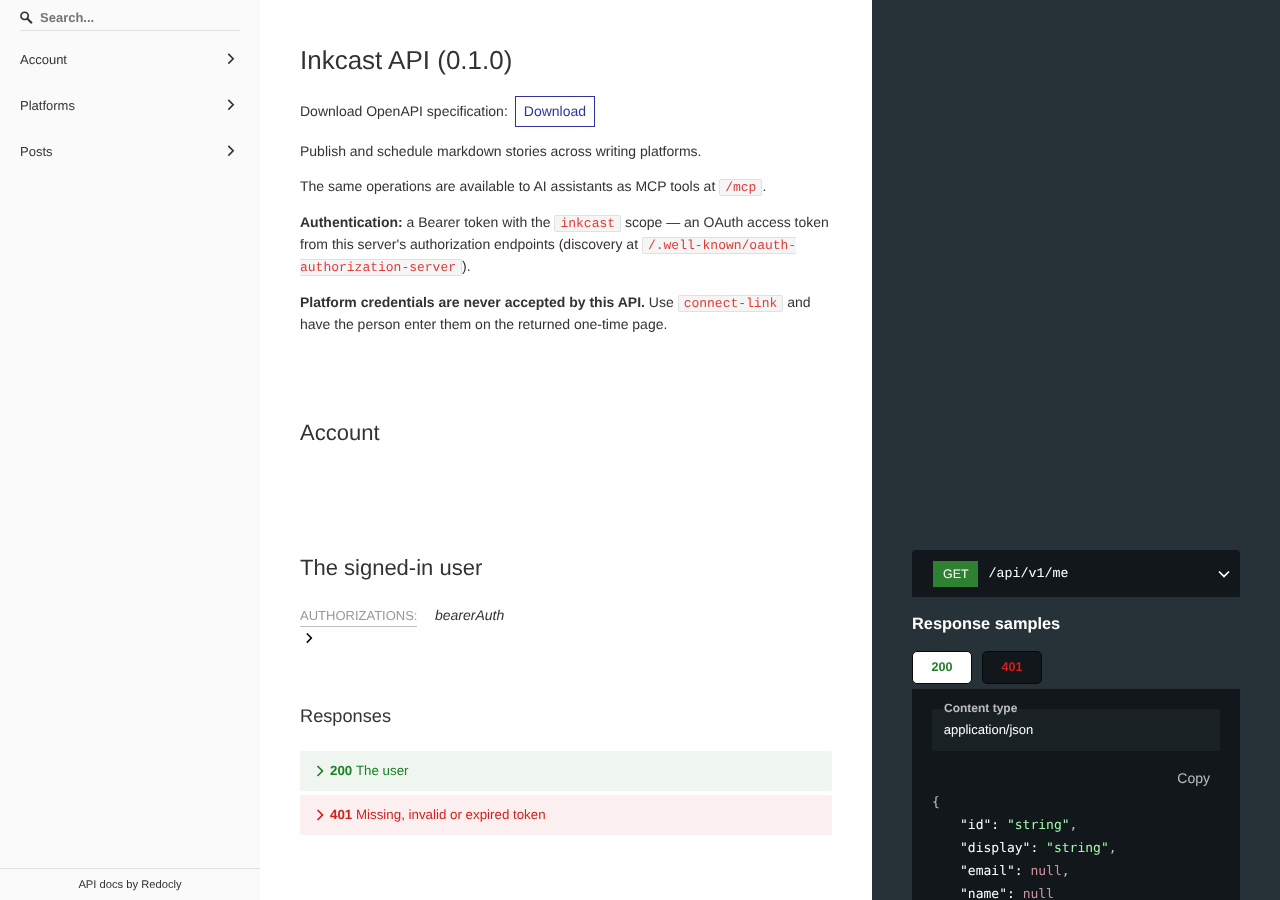
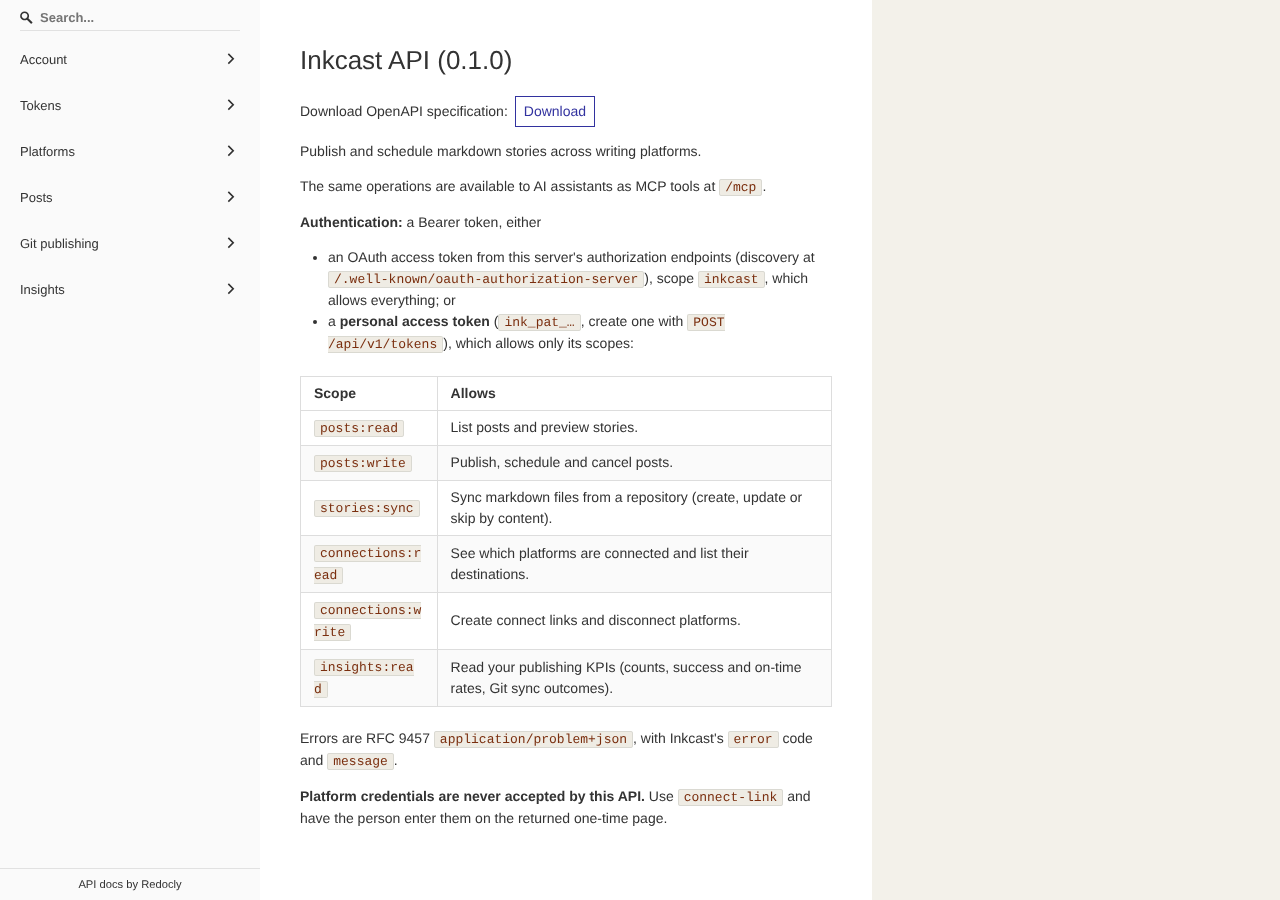
API docs: ReDoc light only, right panel and code samples included (#63)

diff --git a/src/inkcast/libs/http/docs.py b/src/inkcast/libs/http/docs.py
@@ -15,6 +15,7 @@ Routes (see ``docs_routes``)
 from __future__ import annotations
 
 import hashlib
+import json
 from functools import lru_cache
 from importlib.resources import files
 from typing import Any, Callable
@@ -92,10 +93,30 @@ async def swagger_ui(_: Request) -> Response:
         f"<script src='{asset_url('swagger-init.js')}'></script></body></html>"))
 
 
+# ReDoc draws its right-hand panel (code samples) dark by default; Inkcast's pages are light only (#60). The `theme`
+# attribute is JSON that ReDoc parses itself, so no inline script is needed under the CSP.
+REDOC_THEME = json.dumps({
+    "rightPanel": {"backgroundColor": "#f3f1ea", "textColor": "#1c1b19", "width": "40%"},
+    "codeBlock": {"backgroundColor": "#e9e6dc"},
+    "typography": {"code": {"color": "#7a2e0e", "backgroundColor": "#efece4"}},
+}, separators=(",", ":"))
+# What the theme can't reach: ReDoc's code-sample token colours are fixed for a dark panel (keys are plain white), and
+# the selected tab's background is the panel's text colour. Its styled-component selectors outrank plain classes.
+REDOC_LIGHT_CSS = (
+    ".redoc-json .token.property.string{color:#1d4f73!important}"
+    ".token.string{color:#2f6b2f!important}"
+    ".token.number,.token.property,.token.constant{color:#1d5f8a!important}"
+    ".token.boolean{color:#a8321f!important}"
+    ".token.keyword{color:#8a3b52!important}"
+    ".token.string+a,.token.string+a:visited{color:#0e6b63!important}"
+    ".react-tabs__tab--selected{background:#ffffff!important;color:#1c1b19!important}"
+)
+
+
 async def redoc(_: Request) -> Response:
     return _docs_page("Inkcast API — ReDoc", (
-        "<style>body{margin:0}</style></head><body>"
-        "<redoc spec-url='/api/openapi.json' hide-download-button='false'></redoc>"
+        f"<style>body{{margin:0}}{REDOC_LIGHT_CSS}</style></head><body>"
+        f"<redoc spec-url='/api/openapi.json' hide-download-button='false' theme='{REDOC_THEME}'></redoc>"
         f"<script src='{asset_url('redoc.standalone.js')}'></script></body></html>"))
 
 

diff --git a/tests/test_e2e.py b/tests/test_e2e.py
@@ -524,6 +524,23 @@ class EndToEnd(Harness):
             page.locator("h2", has_text="Publish, schedule, draft or preview a story").first.wait_for(timeout=20000)
             if shots:
                 page.screenshot(path=os.path.join(shots, "redoc.png"), full_page=False)
+            # #60: light only. ReDoc paints its right-hand panel dark unless themed; no large dark area may remain,
+            # at the top or beside an operation's code samples.
+            dark_areas = """() => {
+                const lum = c => { const m = c.match(/[\\d.]+/g); if (!m || (m.length > 3 && +m[3] === 0)) return null;
+                    const [r, g, b] = m.slice(0, 3).map(Number); return (0.2126 * r + 0.7152 * g + 0.0722 * b) / 255; };
+                const area = innerWidth * innerHeight, out = [];
+                for (const el of document.querySelectorAll('body *')) {
+                    const r = el.getBoundingClientRect(), l = lum(getComputedStyle(el).backgroundColor);
+                    if (l !== null && l < 0.35 && r.width * r.height > area * 0.05) out.push(el.tagName + ' ' + l.toFixed(2));
+                }
+                return out; }"""
+            self.assertEqual(page.evaluate(dark_areas), [])
+            page.goto(f"{self.config.public_url}/api/redoc#tag/Posts/operation/publish")
+            page.get_by_text("Request samples").first.wait_for(timeout=20000)
+            self.assertEqual(page.evaluate(dark_areas), [])
+            key = page.locator(".redoc-json .token.property.string").first
+            self.assertNotEqual(key.evaluate("e => getComputedStyle(e).color"), "rgb(255, 255, 255)", "white keys on light")
             browser.close()
         # The only thing the CSP should ever block is ReDoc's "by Redocly" footer logo, which
         # ReDoc hard-codes to its CDN. Blocking it is the point: the page makes no outside calls.
